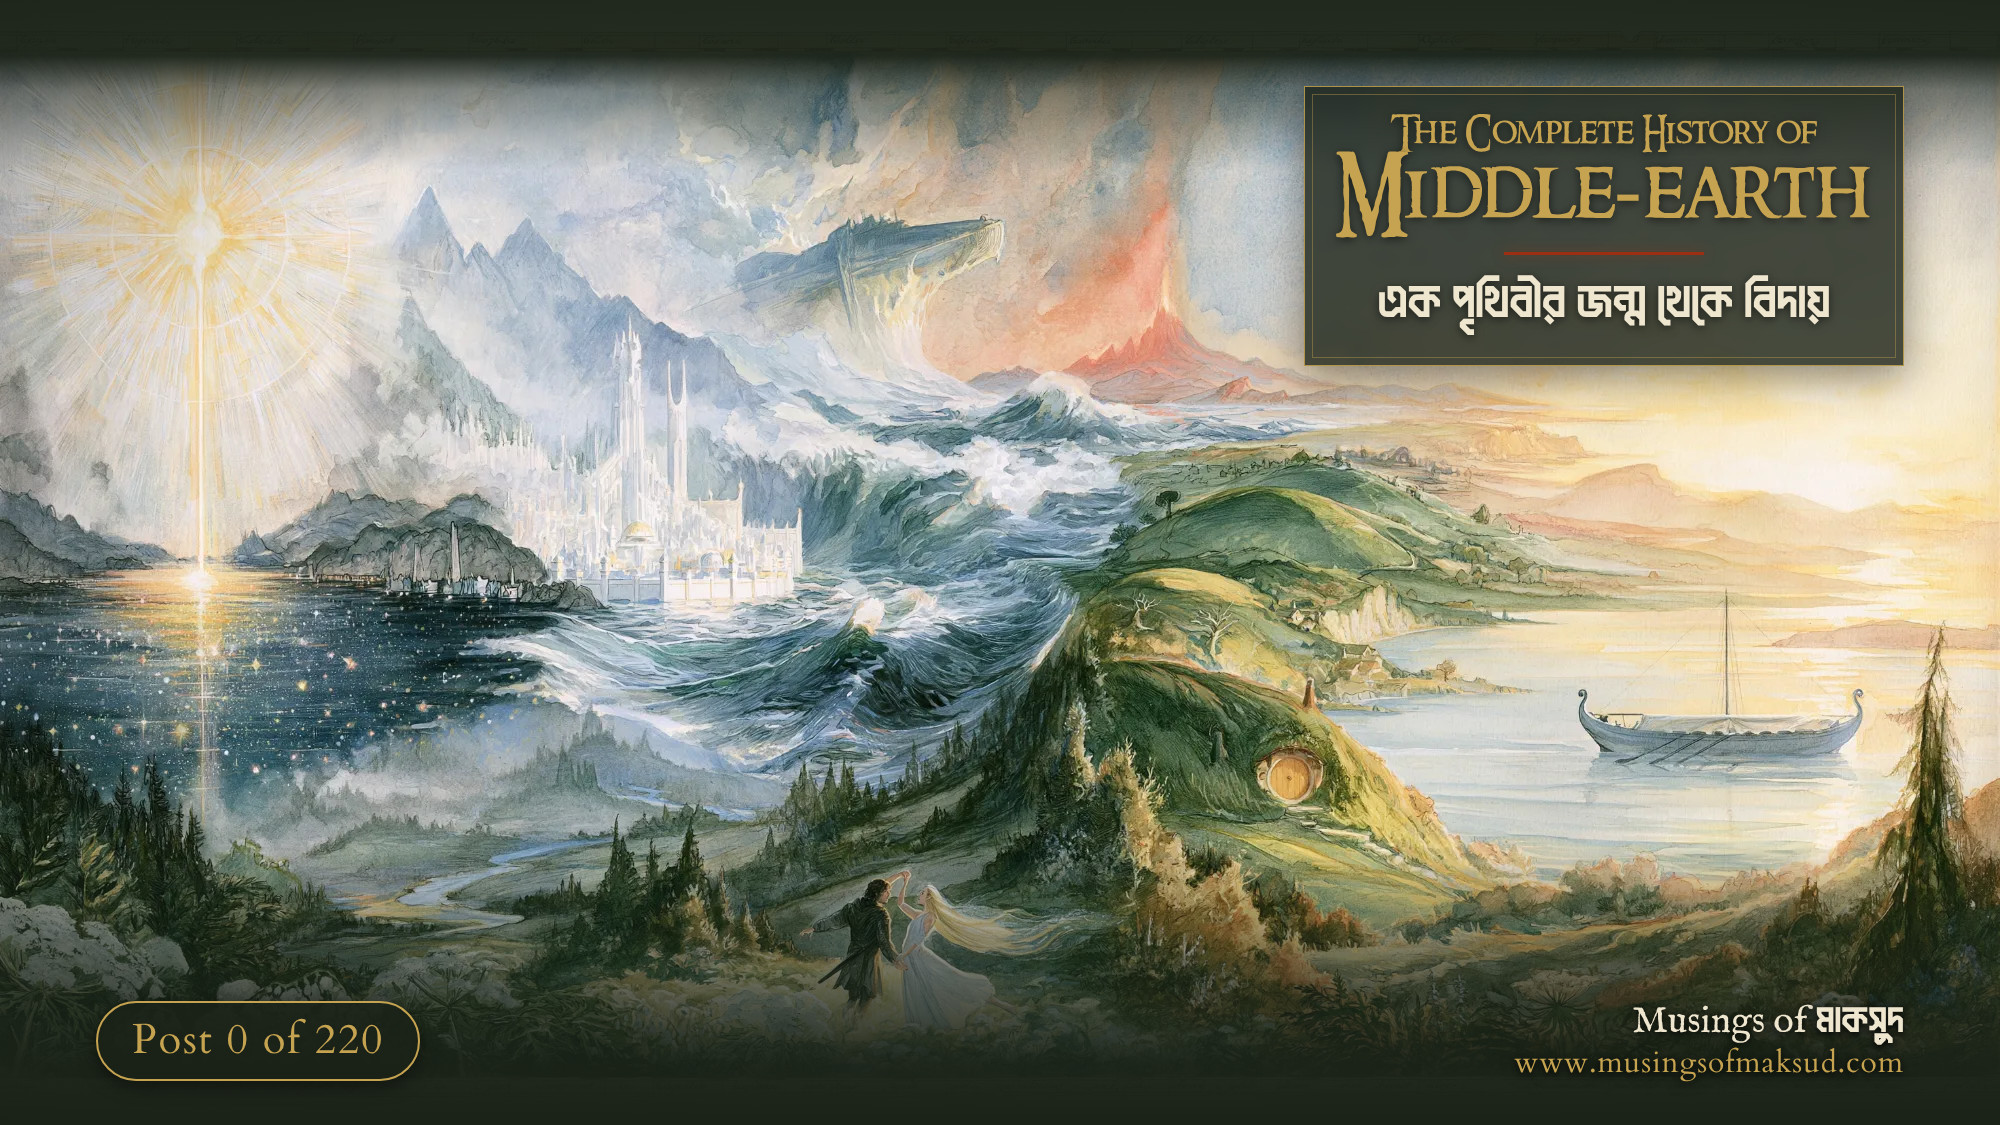
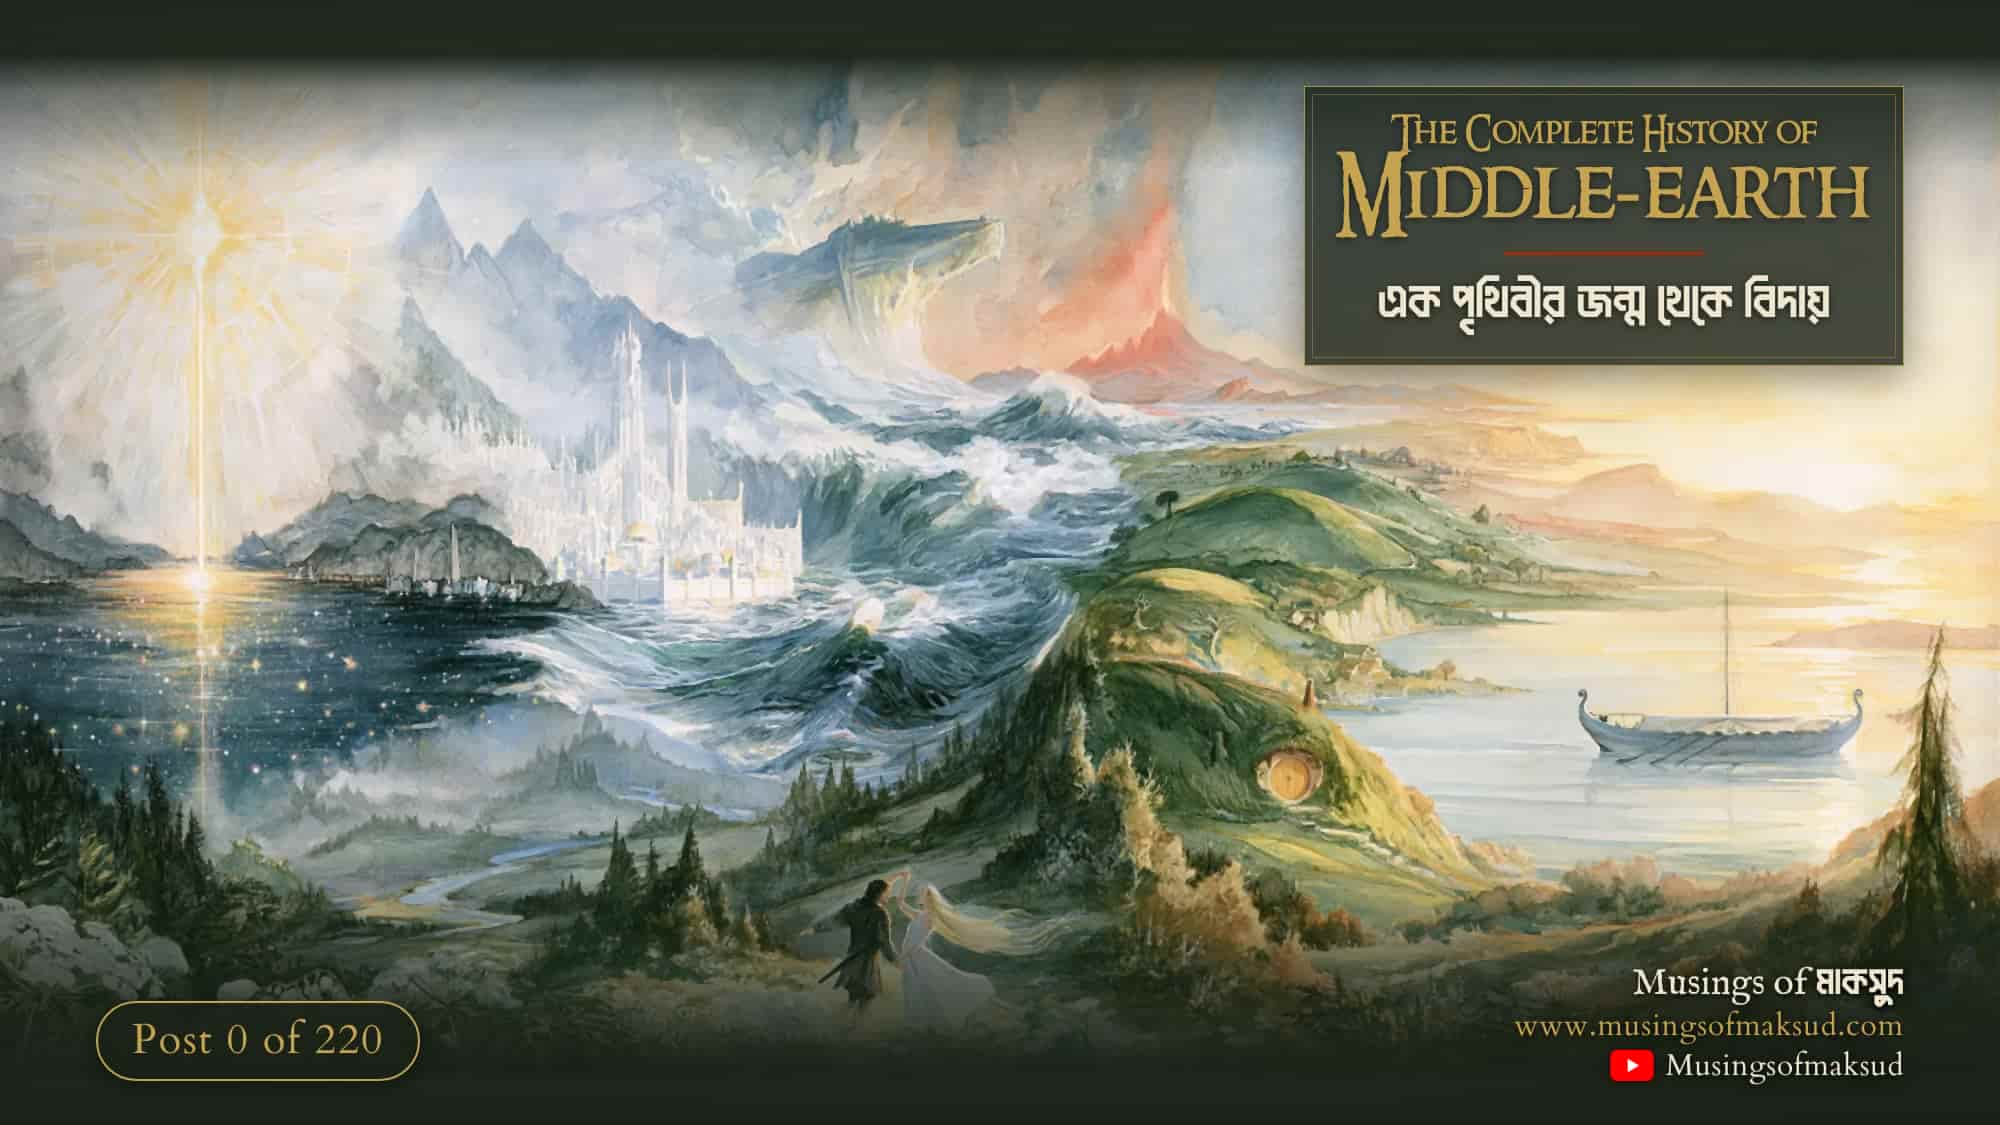
Add YouTube channel line and compress Post 0 to under 100 KB
The bottom-right signature gets a YouTube icon and Musingsofmaksud under
the website. The post JPG is now 98.6 KB at the full 2000x1125: the
painting gets a 3px median filter before the text goes on, then MozJPEG
q37 with trellis (source/compress.mjs). A quality-90 copy is kept as
-hq.jpg.

Claude-Session: https://claude.ai/code/session_014wYo4VJuxYnBG1jM4aApjo

diff --git a/middle-earth-history/post-000/source/post.html b/middle-earth-history/post-000/source/post.html
@@ -14,6 +14,7 @@ html,body{width:2000px;height:1125px;background:var(--bg);overflow:hidden}
 /* hide the painted scroll borders, gentle vignette */
 .top{background:linear-gradient(to bottom,rgba(26,34,24,.97) 0,rgba(26,34,24,.95) 56px,rgba(26,34,24,.45) 90px,rgba(26,34,24,0) 170px)}
 .bottom{background:linear-gradient(to top,rgba(26,34,24,1) 0,rgba(26,34,24,.96) 60px,rgba(26,34,24,.7) 130px,rgba(26,34,24,0) 280px)}
+.corner{background:radial-gradient(ellipse 620px 260px at 100% 100%,rgba(26,34,24,.85) 0%,rgba(26,34,24,.55) 50%,rgba(26,34,24,0) 100%)}
 .vignette{background:radial-gradient(ellipse 75% 80% at 55% 45%,rgba(26,34,24,0) 62%,rgba(26,34,24,.45) 100%)}
 /* title cartouche in the open sky, clear of the star, peaks, Numenor wave and volcano */
 .panel{position:absolute;right:96px;top:86px;width:600px;padding:26px 30px 28px;text-align:center;
@@ -31,13 +32,16 @@ html,body{width:2000px;height:1125px;background:var(--bg);overflow:hidden}
 .sig{position:absolute;right:96px;bottom:44px;text-align:right;text-shadow:0 2px 6px rgba(0,0,0,.8),0 0 16px rgba(0,0,0,.6)}
 .sig .name{font-family:"IM Fell English";font-size:38px;line-height:1.15;color:var(--text)}
 .sig .name span{font-family:Dabanol;font-size:40px}
-.sig .url{font-family:Cardo;font-size:30px;line-height:1.2;letter-spacing:.03em;color:var(--title)}
+.sig .url{font-family:Cardo;font-size:30px;line-height:1.25;letter-spacing:.03em;color:var(--title)}
+.sig .yt{display:flex;justify-content:flex-end;align-items:center;gap:12px;margin-top:6px;font-family:Cardo;font-size:30px;line-height:1;letter-spacing:.02em;color:var(--text)}
+.sig .yt svg{width:44px;height:31px;flex:none;filter:drop-shadow(0 2px 4px rgba(0,0,0,.6))}
 </style></head>
 <body><div class="canvas">
 <img class="art" src="main.webp" alt="">
 <div class="layer vignette"></div>
 <div class="layer top"></div>
 <div class="layer bottom"></div>
+<div class="layer corner"></div>
 <div class="panel">
   <div class="kicker">The Complete History of</div>
   <div class="title">Middle-earth</div>
@@ -45,5 +49,5 @@ html,body{width:2000px;height:1125px;background:var(--bg);overflow:hidden}
   <div class="bn">এক পৃথিবীর জন্ম থেকে বিদায়</div>
 </div>
 <div class="badge">Post 0 of 220</div>
-<div class="sig"><div class="name">Musings of <span>মাকসুদ</span></div><div class="url">www.musingsofmaksud.com</div></div>
+<div class="sig"><div class="name">Musings of <span>মাকসুদ</span></div><div class="url">www.musingsofmaksud.com</div><div class="yt"><svg viewBox="0 0 28 20" aria-label="YouTube"><rect width="28" height="20" rx="4.5" fill="#FF0000"/><path d="M11.2 5.7v8.6l7.4-4.3z" fill="#FFFFFF"/></svg><span>Musingsofmaksud</span></div></div>
 </div></body></html>
